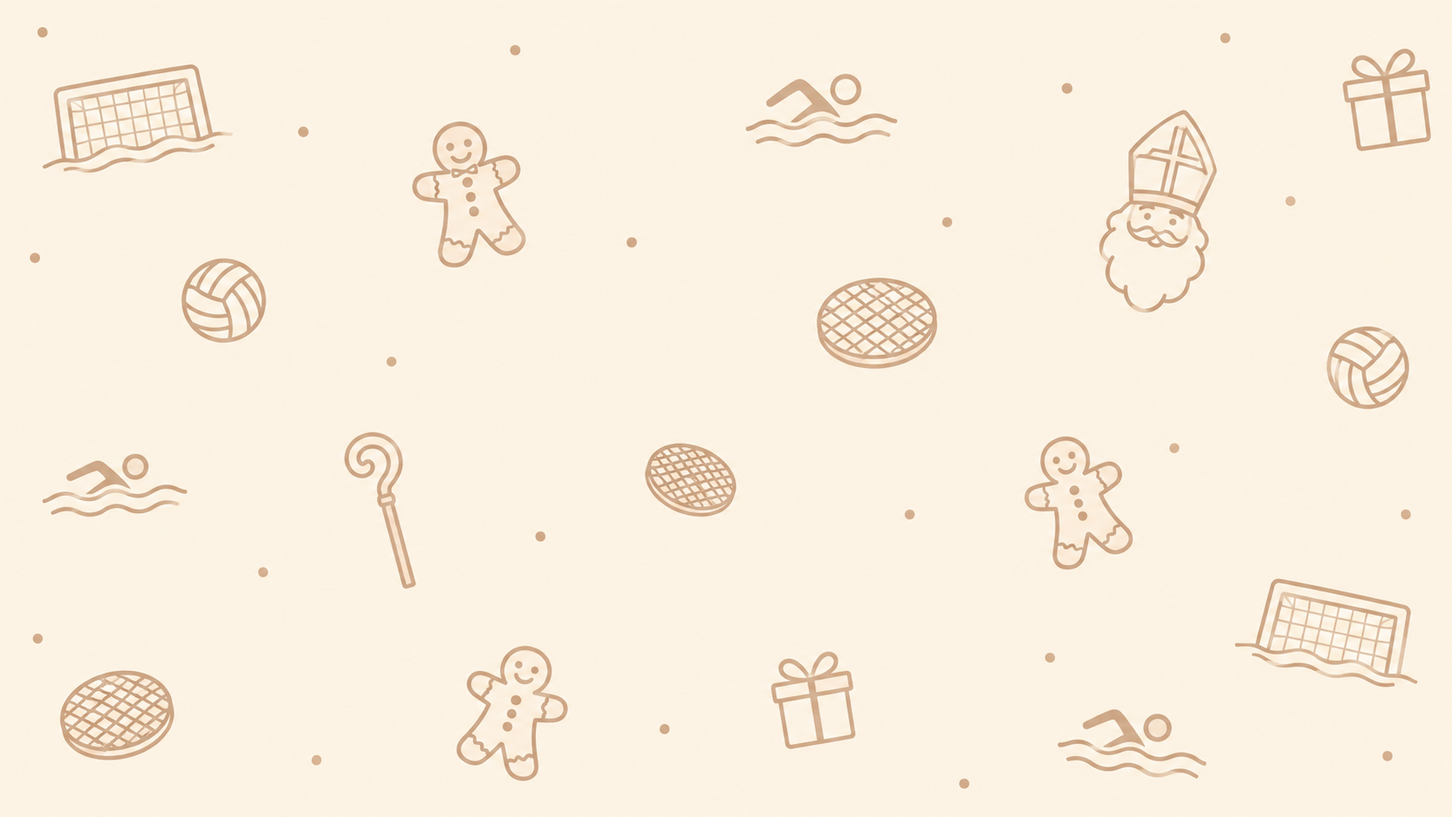
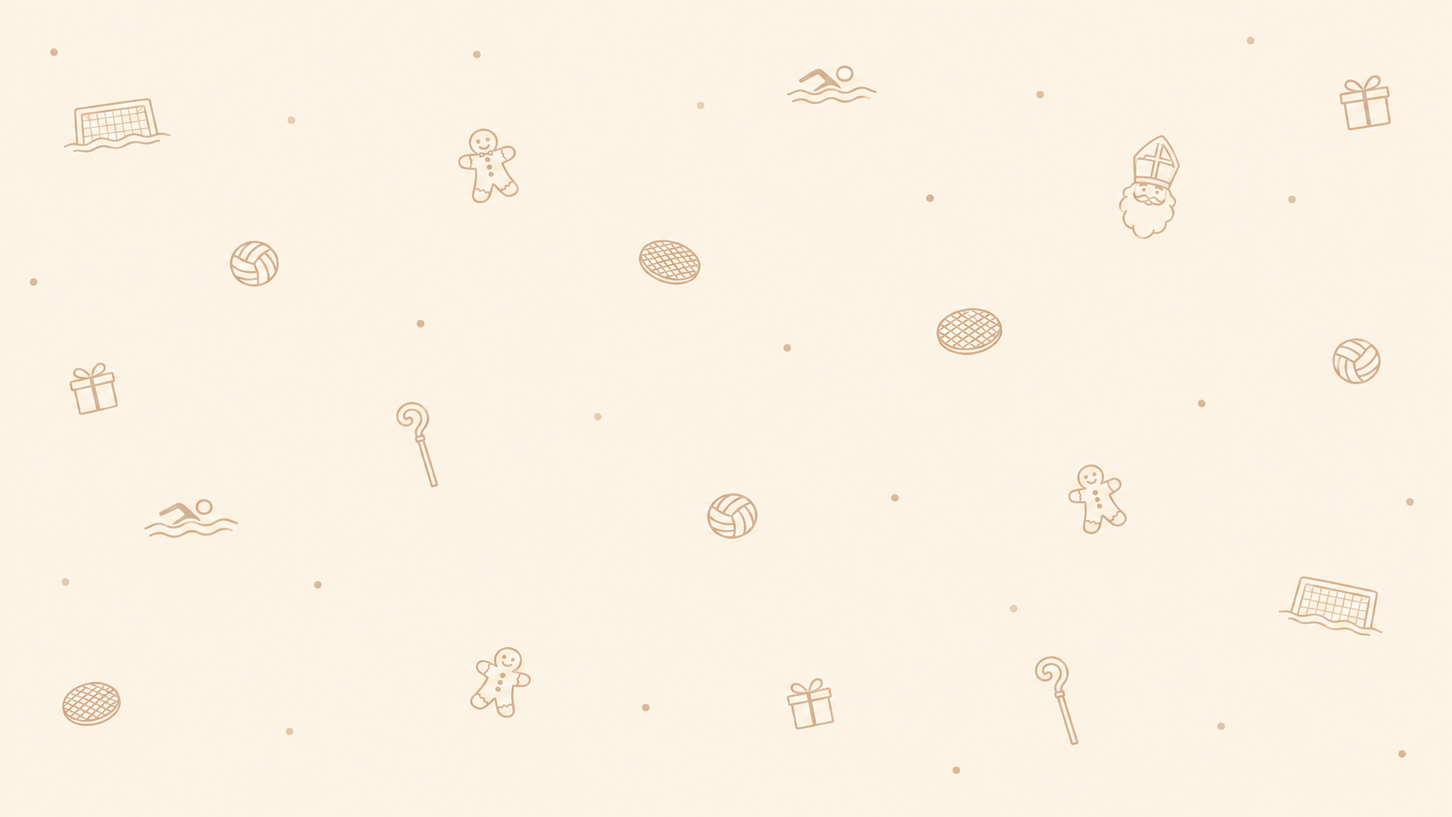
Apply warm Sinterklaas-inspired theme

diff --git a/src/styles.css b/src/styles.css
@@ -2,38 +2,50 @@
 
 :root {
   font-family: 'DM Sans', sans-serif;
-  color: #1d2b24;
-  background: #fcf1e1;
+  color: #34251d;
+  background: #f8efe2;
   font-synthesis: none;
   text-rendering: optimizeLegibility;
   font-smooth: always;
-  --forest: #155c3b;
-  --forest-dark: #0e452c;
-  --forest-soft: #e7f2eb;
-  --club-green: #22c55e;
-  --gold: #f5bd43;
-  --red: #ef4444;
-  --muted: #78827b;
-  --line: #e6e9e3;
-  --paper: #ffffff;
-  --soft-bg: #fcf1e1;
+  --forest: #75472d;
+  --forest-dark: #56331f;
+  --forest-soft: #efe1d0;
+  --club-green: #bd8247;
+  --gold: #c58b3e;
+  --red: #a64e3d;
+  --muted: #81766a;
+  --line: #e8dccb;
+  --paper: #fffaf2;
+  --soft-bg: #f8efe2;
+  --surface-raised: #fffdf8;
   --p-primary-color: var(--forest);
   --p-primary-hover-color: var(--forest-dark);
   --p-primary-active-color: var(--forest-dark);
   --p-primary-contrast-color: #ffffff;
-  --p-focus-ring-color: rgb(21 92 59 / 24%);
+  --p-focus-ring-color: rgb(117 71 45 / 24%);
 }
 
 * { box-sizing: border-box; }
 
 body {
+  position: relative;
+  isolation: isolate;
   min-width: 320px;
   min-height: 100vh;
   margin: 0;
   background-color: var(--soft-bg);
+}
+
+body::before {
+  position: fixed;
+  z-index: -1;
+  inset: 0;
+  content: '';
   background-image: url('./assets/bg.png');
   background-size: 50% auto;
   background-repeat: repeat;
+  opacity: .14;
+  pointer-events: none;
 }
 
 button, input, textarea { font: inherit; }
@@ -46,7 +58,7 @@ a { color: inherit; }
   display: flex;
   align-items: center;
   gap: 48px;
-  background: rgb(255 255 255 / 92%);
+  background: rgb(255 250 242 / 94%);
   border-bottom: 1px solid var(--line);
 }
 .brand { display: flex; align-items: center; gap: 11px; text-decoration: none; flex-shrink: 0; }
@@ -58,16 +70,16 @@ a { color: inherit; }
   height: 43px;
   border: 2px solid var(--forest);
   border-radius: 50%;
-  color: var(--red);
+  color: var(--gold);
   font: 800 24px 'Manrope', sans-serif;
-  background: #fff;
-  box-shadow: inset 0 0 0 3px #fff, inset 0 0 0 5px var(--forest);
+  background: var(--paper);
+  box-shadow: inset 0 0 0 3px var(--paper), inset 0 0 0 5px var(--forest);
 }
 .brand-copy { display: grid; gap: 1px; }
 .brand-copy strong { font: 800 14px 'Manrope', sans-serif; letter-spacing: -.025em; }
 .brand-copy small { color: var(--muted); font-size: 11px; }
 .main-nav { display: flex; align-items: center; gap: 28px; flex: 1; }
-.main-nav a, .login-link { color: #69736c; font-size: 13px; font-weight: 600; text-decoration: none; transition: color .18s ease; }
+.main-nav a, .login-link { color: #74685b; font-size: 13px; font-weight: 600; text-decoration: none; transition: color .18s ease; }
 .main-nav a:hover, .main-nav a.router-link-active, .login-link:hover { color: var(--forest); }
 .main-nav a.router-link-active { position: relative; }
 .main-nav a.router-link-active::after { position: absolute; content: ''; height: 2px; left: 0; right: 0; bottom: -27px; background: var(--forest); border-radius: 2px; }
@@ -77,48 +89,50 @@ a { color: inherit; }
 .page-content { width: min(1120px, calc(100% - 44px)); margin: 0 auto; flex: 1; padding: 38px 0 68px; }
 .page-heading { display: flex; align-items: center; justify-content: space-between; margin: 0 0 28px; }
 .page-heading h1 { margin: 5px 0 0; font: 800 clamp(28px, 4vw, 38px) 'Manrope', sans-serif; letter-spacing: -.045em; }
-.heading-season { color: #adbaae; font: 800 32px 'Manrope', sans-serif; }
+.heading-season { color: #c3ad94; font: 800 32px 'Manrope', sans-serif; }
 .eyebrow { margin: 0; color: var(--forest); font-size: 11px; font-weight: 800; letter-spacing: .12em; text-transform: uppercase; }
 .setup-notice, .deadline-notice { display: flex; align-items: center; gap: 10px; padding: 11px 24px; font-size: 13px; }
 .setup-notice { color: #735516; background: #fff2d6; }
 .deadline-notice { color: #814b08; background: #fff2d6; }
 
-.hero-grid { display: grid; grid-template-columns: minmax(0, 1.15fr) minmax(340px, .75fr); align-items: center; gap: 62px; padding: 48px 0 76px; }
+.hero-grid { position: relative; display: grid; grid-template-columns: minmax(0, 1.15fr) minmax(340px, .75fr); align-items: center; gap: 62px; padding: 48px 0 76px; }
+.hero-grid::before { position: absolute; z-index: 0; inset: -18px 34% -22px -8vw; content: ''; background: radial-gradient(ellipse at 30% 45%, rgb(255 250 242 / 97%) 0%, rgb(255 250 242 / 88%) 48%, rgb(255 250 242 / 0%) 100%); pointer-events: none; }
+.hero-grid > * { position: relative; z-index: 1; }
 .hero-copy h1 { max-width: 650px; margin: 15px 0 18px; font: 800 clamp(38px, 5.3vw, 64px)/1.08 'Manrope', sans-serif; letter-spacing: -.065em; }
 .hero-copy h1 span { color: var(--forest); }
-.hero-description { max-width: 515px; color: #657269; font-size: 16px; line-height: 1.75; }
+.hero-description { max-width: 515px; color: #66594d; font-size: 16px; line-height: 1.75; }
 .hero-pills { display: flex; flex-wrap: wrap; gap: 10px; margin-top: 26px; }
-.hero-pills span { padding: 9px 13px; border-radius: 999px; background: #fff; border: 1px solid var(--line); color: #58655c; font-size: 12px; font-weight: 600; }
+.hero-pills span { padding: 9px 13px; border-radius: 999px; background: var(--paper); border: 1px solid var(--line); color: #665748; font-size: 12px; font-weight: 600; }
 .hero-pills i { margin-right: 5px; color: var(--forest); }
 .login-card { max-width: 425px; justify-self: end; width: 100%; }
-.p-card { border: 1px solid var(--line); border-radius: 18px; box-shadow: 0 12px 35px rgb(25 54 37 / 5%); }
+.p-card { border: 1px solid var(--line); border-radius: 18px; background: var(--paper); box-shadow: 0 12px 35px rgb(79 53 31 / 7%); }
 .p-card .p-card-body { padding: 25px; }
 .p-card .p-card-title { display: flex; align-items: center; gap: 11px; font: 700 17px 'Manrope', sans-serif; letter-spacing: -.02em; }
 .p-card .p-card-subtitle { margin-top: 7px; color: var(--muted); font-size: 13px; line-height: 1.55; }
 .p-card .p-card-content { padding-top: 20px; }
 .card-icon, .side-icon { display: inline-grid; place-items: center; width: 39px; height: 39px; border-radius: 12px; background: var(--forest-soft); color: var(--forest); }
 .stack-form { display: grid; gap: 10px; }
-.stack-form label, .field label { color: #445148; font-size: 12px; font-weight: 700; }
-.p-inputtext, .p-textarea { width: 100%; border-color: #dce3dd; border-radius: 10px; font-size: 13px; }
+.stack-form label, .field label { color: #574538; font-size: 12px; font-weight: 700; }
+.p-inputtext, .p-textarea { width: 100%; border-color: #dfd2c0; border-radius: 10px; background: var(--surface-raised); font-size: 13px; }
 .p-inputtext { min-height: 43px; }
 .p-button { border-radius: 10px; font-size: 13px; font-weight: 700; }
 .stack-form .p-button { width: 100%; justify-content: center; margin-top: 4px; min-height: 45px; }
 .p-button:not(.p-button-secondary):not(.p-button-text):not(.p-button-outlined):not(.p-button-danger) { background: var(--forest); border-color: var(--forest); }
 .p-button:not(.p-button-secondary):not(.p-button-text):not(.p-button-outlined):not(.p-button-danger):hover { background: var(--forest-dark); border-color: var(--forest-dark); }
 .form-message { margin-top: 14px; }
-.privacy-note { display: flex; align-items: flex-start; gap: 7px; color: #849087; font-size: 11px; line-height: 1.5; }
+.privacy-note { display: flex; align-items: flex-start; gap: 7px; color: #81766a; font-size: 11px; line-height: 1.5; }
 .privacy-note i { color: var(--forest); margin-top: 1px; }
 .login-card .privacy-note { margin: 16px 0 0; }
 .hero-art { min-height: 340px; position: relative; display: grid; place-items: center; }
-.art-sun { position: absolute; width: 300px; height: 300px; border-radius: 50%; background: #f8de95; top: 16px; right: 18px; opacity: .63; }
-.art-card { position: relative; z-index: 1; width: 240px; height: 285px; display: flex; flex-direction: column; justify-content: space-between; padding: 25px; color: white; background: linear-gradient(150deg, #1d7049, #114a31); border-radius: 18px; box-shadow: 0 25px 55px rgb(20 77 48 / 25%); transform: rotate(-5deg); }
+.art-sun { position: absolute; width: 300px; height: 300px; border-radius: 50%; background: #e8c99e; top: 16px; right: 18px; opacity: .54; }
+.art-card { position: relative; z-index: 1; width: 240px; height: 285px; display: flex; flex-direction: column; justify-content: space-between; padding: 25px; color: #fffaf2; background: linear-gradient(150deg, #865337, #593923); border-radius: 18px; box-shadow: 0 25px 55px rgb(79 53 31 / 22%); transform: rotate(-5deg); }
 .art-label { font-size: 10px; letter-spacing: .16em; text-transform: uppercase; opacity: .8; }
 .art-card strong { font: 800 28px/1.1 'Manrope', sans-serif; letter-spacing: -.05em; }
 .art-product-icon { align-self: flex-end; width: 78px; height: 78px; border: 5px solid rgb(255 255 255 / 75%); border-radius: 22px; box-shadow: 0 8px 18px rgb(0 0 0 / 15%); }
 .art-footer { font-size: 10px; opacity: .72; letter-spacing: .1em; text-transform: uppercase; }
-.floating-price { position: absolute; right: 0; bottom: 42px; z-index: 2; padding: 13px 17px; color: var(--forest); background: white; border-radius: 12px; box-shadow: 0 8px 26px rgb(38 60 43 / 12%); font: 800 20px 'Manrope', sans-serif; transform: rotate(4deg); }
+.floating-price { position: absolute; right: 0; bottom: 42px; z-index: 2; padding: 13px 17px; color: var(--forest); background: var(--paper); border-radius: 12px; box-shadow: 0 8px 26px rgb(79 53 31 / 12%); font: 800 20px 'Manrope', sans-serif; transform: rotate(4deg); }
 .floating-price small { display: block; color: var(--muted); font: 500 10px 'DM Sans', sans-serif; }
-.welcome-card { display: flex; align-items: center; gap: 14px; max-width: 530px; margin-top: 28px; padding: 15px; border: 1px solid #d5e7d9; border-radius: 14px; background: #fff; }
+.welcome-card { display: flex; align-items: center; gap: 14px; max-width: 530px; margin-top: 28px; padding: 15px; border: 1px solid #e5d4bd; border-radius: 14px; background: var(--paper); }
 .welcome-icon { display: grid; place-items: center; width: 36px; height: 36px; flex: 0 0 auto; color: var(--forest); background: var(--forest-soft); border-radius: 50%; }
 .welcome-card p { margin: 4px 0 0; color: var(--muted); font-size: 11px; }
 .welcome-card .text-action { margin-left: auto; }
@@ -129,7 +143,7 @@ a { color: inherit; }
 .text-action { display: inline-flex; align-items: center; gap: 8px; color: var(--forest); font-size: 12px; font-weight: 800; text-decoration: none; }
 .text-action:hover { color: var(--forest-dark); }
 .product-cards { display: grid; grid-template-columns: repeat(4, minmax(0, 1fr)); gap: 14px; margin-top: 22px; }
-.product-card { display: flex; align-items: center; gap: 15px; padding: 18px; background: #fff; border: 1px solid var(--line); border-radius: 14px; }
+.product-card { display: flex; align-items: center; gap: 15px; padding: 18px; background: rgb(255 250 242 / 94%); border: 1px solid var(--line); border-radius: 14px; box-shadow: 0 5px 18px rgb(79 53 31 / 4%); }
 .product-art { display: block; width: 50px; height: 50px; flex: 0 0 auto; border-radius: 13px; }
 .product-card h3 { margin: 0 0 4px; font: 700 14px 'Manrope', sans-serif; }
 .product-card p { margin: 0; color: var(--muted); font-size: 11px; }
@@ -143,36 +157,36 @@ a { color: inherit; }
 .leaderboard-title .muted { margin: 0; }
 .leaderboard-list { display: grid; gap: 5px; }
 .leaderboard-row { min-height: 67px; display: grid; grid-template-columns: 35px 36px minmax(100px, 1fr) minmax(60px, .8fr) 95px; align-items: center; gap: 13px; padding: 8px 12px; border-radius: 12px; }
-.leaderboard-row:nth-child(even) { background: #f8faf7; }
-.rank-number { color: #95a197; font: 700 12px 'Manrope', sans-serif; }
+.leaderboard-row:nth-child(even) { background: #f7f0e6; }
+.rank-number { color: #a49483; font: 700 12px 'Manrope', sans-serif; }
 .rank-avatar-wrap { position: relative; display: grid; place-items: center; width: 36px; height: 36px; }
 .rank-medal { position: absolute; top: -4px; right: -4px; display: grid; place-items: center; width: 15px; height: 15px; border: 2px solid #fff; border-radius: 50%; color: #8b5b00; background: #f4c84c; font-size: 9px; line-height: 1; }
-.rank-avatar { display: grid; place-items: center; width: 35px; height: 35px; border-radius: 50%; color: var(--forest); background: #e4efe6; font: 800 13px 'Manrope', sans-serif; }
-.leaderboard-row:nth-child(2) .rank-avatar { background: #eee9dc; color: #89774a; }
-.leaderboard-row:nth-child(3) .rank-avatar { background: #f4e3df; color: #a75e50; }
+.rank-avatar { display: grid; place-items: center; width: 35px; height: 35px; border-radius: 50%; color: var(--forest); background: #ead9c3; font: 800 13px 'Manrope', sans-serif; }
+.leaderboard-row:nth-child(2) .rank-avatar { background: #e8e0d1; color: #76644b; }
+.leaderboard-row:nth-child(3) .rank-avatar { background: #efddd2; color: #995d42; }
 .rank-name { font-size: 13px; }
-.rank-bar { height: 6px; overflow: hidden; border-radius: 10px; background: #e9eee9; }
-.rank-bar span { display: block; height: 100%; min-width: 8px; border-radius: inherit; background: linear-gradient(90deg, #15803d, var(--club-green)); }
+.rank-bar { height: 6px; overflow: hidden; border-radius: 10px; background: #e9dfd1; }
+.rank-bar span { display: block; height: 100%; min-width: 8px; border-radius: inherit; background: linear-gradient(90deg, #75472d, var(--club-green)); }
 .rank-total { text-align: right; color: var(--forest); font: 700 13px 'Manrope', sans-serif; white-space: nowrap; }
 .privacy-note { margin-top: 20px; }
-.side-card { padding: 22px; border-radius: 16px; background: #eaf3eb; }
-.side-icon { width: 44px; height: 44px; margin-bottom: 22px; background: white; color: #c89015; font-size: 18px; }
+.side-card { padding: 22px; border: 1px solid #e7d7c2; border-radius: 16px; background: #f1e4d2; }
+.side-icon { width: 44px; height: 44px; margin-bottom: 22px; background: var(--paper); color: #a66d33; font-size: 18px; }
 .side-card h3 { margin: 9px 0; font: 800 21px/1.25 'Manrope', sans-serif; letter-spacing: -.04em; }
-.side-card p:not(.eyebrow) { margin: 0 0 19px; color: #68786b; font-size: 12px; line-height: 1.7; }
+.side-card p:not(.eyebrow) { margin: 0 0 19px; color: #746456; font-size: 12px; line-height: 1.7; }
 .prizes-card .p-card-body { padding: 22px; }
 .prizes-card h2 { margin: 7px 0; font: 800 20px 'Manrope', sans-serif; letter-spacing: -.04em; }
 .prizes-card .muted { margin: 0; line-height: 1.6; }
 .prize-list { display: grid; gap: 8px; margin-top: 17px; }
-.prize-row { display: grid; grid-template-columns: 31px auto 1fr auto; align-items: center; gap: 9px; padding: 10px; border-radius: 11px; background: #fafaf7; font-size: 10px; }
-.prize-row > strong { color: #334138; font-size: 11px; white-space: nowrap; }
+.prize-row { display: grid; grid-template-columns: 31px auto 1fr auto; align-items: center; gap: 9px; padding: 10px; border-radius: 11px; background: #f8f2e9; font-size: 10px; }
+.prize-row > strong { color: #49382b; font-size: 11px; white-space: nowrap; }
 .prize-row > span:not(.prize-icon) { color: var(--muted); }
 .prize-icon { display: grid; place-items: center; width: 30px; height: 30px; border-radius: 50%; }
-.prize-gold .prize-icon { color: #996b07; background: #f9e9b5; }
-.prize-silver .prize-icon { color: #657079; background: #e8ecef; }
+.prize-gold .prize-icon { color: #8d5b19; background: #f1dfbd; }
+.prize-silver .prize-icon { color: #655b4e; background: #e8e0d4; }
 .prize-bronze .prize-icon { color: #925b3d; background: #f0dfd3; }
 .prize-row .prize-value { color: var(--forest); font: 800 13px 'Manrope', sans-serif; }
 .empty-state, .loading-state { padding: 42px 12px; text-align: center; color: var(--muted); }
-.empty-state h3 { color: #445148; font: 700 16px 'Manrope', sans-serif; }
+.empty-state h3 { color: #574538; font: 700 16px 'Manrope', sans-serif; }
 .empty-icon { display: grid; place-items: center; width: 46px; height: 46px; margin: auto; border-radius: 50%; color: var(--forest); background: var(--forest-soft); }
 
 .centered-page { display: grid; place-items: start center; }
@@ -183,27 +197,27 @@ a { color: inherit; }
 
 .order-layout { display: grid; grid-template-columns: minmax(0, 1fr) 330px; align-items: start; gap: 20px; }
 .order-form { display: grid; gap: 16px; }
-.seller-total-card { overflow: hidden; background: linear-gradient(110deg, #eaf4eb, #fff 80%); }
+.seller-total-card { overflow: hidden; background: linear-gradient(110deg, #f1e5d4, #fffaf2 80%); }
 .seller-total-card .p-card-body { padding: 17px 22px; }
 .seller-total-card .p-card-content { display: block; padding: 0; }
 .seller-total-toggle { display: flex; width: 100%; align-items: center; justify-content: space-between; padding: 0; border: 0; color: inherit; background: transparent; text-align: left; cursor: pointer; }
-.seller-total-toggle:focus-visible { outline: 3px solid rgb(21 92 59 / 30%); outline-offset: 5px; border-radius: 8px; }
+.seller-total-toggle:focus-visible { outline: 3px solid rgb(117 71 45 / 30%); outline-offset: 5px; border-radius: 8px; }
 .seller-total-copy { display: grid; gap: 4px; }
 .seller-total-copy strong { color: var(--forest); font: 800 25px 'Manrope', sans-serif; }
 .seller-total-copy small { color: var(--forest); font-size: 11px; font-weight: 700; }
-.seller-total-action { display: grid; place-items: center; width: 38px; height: 38px; border: 1px solid #d6e4d7; border-radius: 50%; color: var(--forest); background: #fff; font-size: 15px; transition: background .2s, transform .2s; }
-.seller-total-toggle:hover .seller-total-action { transform: translateY(2px); background: #f3f8f3; }
-.sales-history { margin-top: 16px; padding-top: 14px; border-top: 1px solid #dfe9df; animation: reveal-history .25s ease-out both; }
-.sales-history-heading { display: flex; align-items: center; justify-content: space-between; color: #334138; font: 700 13px 'Manrope', sans-serif; }
+.seller-total-action { display: grid; place-items: center; width: 38px; height: 38px; border: 1px solid #e3d2bc; border-radius: 50%; color: var(--forest); background: var(--paper); font-size: 15px; transition: background .2s, transform .2s; }
+.seller-total-toggle:hover .seller-total-action { transform: translateY(2px); background: #f7efe4; }
+.sales-history { margin-top: 16px; padding-top: 14px; border-top: 1px solid #e8dccb; animation: reveal-history .25s ease-out both; }
+.sales-history-heading { display: flex; align-items: center; justify-content: space-between; color: #49382b; font: 700 13px 'Manrope', sans-serif; }
 .sales-history-heading .p-button { width: 32px; height: 32px; }
 .sales-history-state { padding: 18px 4px; color: var(--muted); font-size: 11px; }
 .sales-history-list { display: grid; max-height: 340px; overflow-y: auto; }
-.sales-history-order { position: relative; display: grid; gap: 4px; padding: 11px 3px; border-bottom: 1px solid #e8eee8; }
-.sales-order-heading { display: flex; align-items: center; justify-content: space-between; gap: 8px; color: #334138; font-size: 11px; }
+.sales-history-order { position: relative; display: grid; gap: 4px; padding: 11px 3px; border-bottom: 1px solid #eee4d6; }
+.sales-order-heading { display: flex; align-items: center; justify-content: space-between; gap: 8px; color: #49382b; font-size: 11px; }
 .sales-order-heading .p-tag { font-size: 9px; }
 .sales-order-total { color: var(--forest); white-space: nowrap; }
 .sales-history-order > small { color: var(--muted); font-size: 9px; }
-.sales-history-order > p { margin: 0; color: #667168; font-size: 10px; line-height: 1.5; }
+.sales-history-order > p { margin: 0; color: #74685b; font-size: 10px; line-height: 1.5; }
 .sales-history-cancelled { opacity: .68; }
 .cancelled-order-total { color: #7d8580; font-size: 10px; text-decoration: line-through; }
 .buyer-card .p-card-body, .products-card .p-card-body, .summary-card .p-card-body { padding: 22px; }
@@ -218,56 +232,57 @@ a { color: inherit; }
 .group-heading p { margin: 0; color: var(--muted); font-size: 11px; }
 .product-quantity-list { margin-top: 13px; }
 .quantity-row { display: flex; align-items: center; justify-content: space-between; gap: 15px; padding: 13px 0; }
-.quantity-row + .quantity-row { border-top: 1px dashed #e7ebe6; }
+.quantity-row + .quantity-row { border-top: 1px dashed #e8dccb; }
 .quantity-product-art { display: block; width: 52px; height: 52px; flex: 0 0 auto; border-radius: 13px; }
 .quantity-product-copy { flex: 1; }
 .quantity-row strong { display: block; font-size: 12px; }
 .quantity-row small { display: block; margin-top: 4px; color: var(--muted); font-size: 10px; }
 .p-inputnumber .p-inputnumber-input { text-align: center; }
-.quantity-row .p-inputnumber-button { background: #f1f5f0; border-color: #e4e9e3; color: var(--forest); }
+.quantity-row .p-inputnumber-button { background: #f4ecdf; border-color: #e5d7c4; color: var(--forest); }
 .quantity-row .p-inputnumber { width: 145px; }
 .summary-card { position: sticky; top: 18px; }
 .summary-card .p-card-title { display: block; font: 800 18px 'Manrope', sans-serif; }
 .summary-lines { display: grid; gap: 12px; min-height: 28px; }
-.summary-lines > div { display: flex; align-items: flex-start; justify-content: space-between; gap: 10px; color: #647168; font-size: 11px; }
-.summary-lines > div strong { color: #263a2d; white-space: nowrap; }
+.summary-lines > div { display: flex; align-items: flex-start; justify-content: space-between; gap: 10px; color: #706255; font-size: 11px; }
+.summary-lines > div strong { color: #3e2e22; white-space: nowrap; }
 .summary-lines .muted { margin: 0; }
 .total-row { display: flex; justify-content: space-between; align-items: center; }
-.total-row span { color: #505d54; font-size: 13px; font-weight: 700; }
+.total-row span { color: #635344; font-size: 13px; font-weight: 700; }
 .total-row strong { color: var(--forest); font: 800 26px 'Manrope', sans-serif; }
-.discount-note { display: flex; gap: 7px; color: #768178; font-size: 10px; line-height: 1.5; }
+.discount-note { display: flex; gap: 7px; color: #81766a; font-size: 10px; line-height: 1.5; }
 .discount-note i { color: #bd8a1b; }
-.discount-total { display: flex; justify-content: space-between; align-items: center; margin-top: 13px; color: #647168; font-size: 11px; }
+.discount-total { display: flex; justify-content: space-between; align-items: center; margin-top: 13px; color: #706255; font-size: 11px; }
 .discount-total i { margin-right: 5px; color: #bd8a1b; }
-.discount-total strong, .order-discount { color: #23804a; font-weight: 700; white-space: nowrap; }
+.discount-total strong, .order-discount { color: #765a35; font-weight: 700; white-space: nowrap; }
 .order-discount { font-size: 11px; }
 .submit-order { width: 100%; justify-content: center; min-height: 45px; }
 .tiny-note { font-size: 10px; line-height: 1.5; }
 .saved-message { margin-top: 13px; }
 .saved-message .p-message-text { display: grid; gap: 3px; }
-.confirm-order-content > p:first-child { margin: 0 0 16px; color: #59665d; font-size: 13px; }
-.confirm-order-content > p:first-child strong { color: #263a2d; }
-.confirm-order-lines { display: grid; gap: 10px; padding: 14px; border-radius: 12px; background: #f7f9f5; }
-.confirm-order-lines > div { display: flex; justify-content: space-between; gap: 12px; color: #647168; font-size: 11px; }
-.confirm-order-lines > div strong { color: #263a2d; white-space: nowrap; }
-.confirm-order-lines .confirm-discount strong { color: #23804a; }
-.confirm-order-lines .confirm-order-total { padding-top: 10px; border-top: 1px solid var(--line); color: #334138; font-size: 13px; font-weight: 700; }
+.confirm-order-content > p:first-child { margin: 0 0 16px; color: #66584b; font-size: 13px; }
+.confirm-order-content > p:first-child strong { color: #3e2e22; }
+.confirm-order-lines { display: grid; gap: 10px; padding: 14px; border-radius: 12px; background: #f8f2e9; }
+.confirm-order-lines > div { display: flex; justify-content: space-between; gap: 12px; color: #706255; font-size: 11px; }
+.confirm-order-lines > div strong { color: #3e2e22; white-space: nowrap; }
+.confirm-order-lines .confirm-discount strong { color: #765a35; }
+.confirm-order-lines .confirm-order-total { padding-top: 10px; border-top: 1px solid var(--line); color: #49382b; font-size: 13px; font-weight: 700; }
 .confirm-order-lines .confirm-order-total strong { color: var(--forest); font: 800 20px 'Manrope', sans-serif; }
 .confirm-order-content > .muted { line-height: 1.6; }
 .order-success-dialog .p-dialog-content { padding: 28px 30px 30px; border-radius: 18px; }
 .order-success-content { display: grid; justify-items: center; text-align: center; }
 .order-success-content .eyebrow { margin-top: 10px; }
-.order-success-content h2 { margin: 6px 0; color: #20372a; font: 800 23px 'Manrope', sans-serif; letter-spacing: -.04em; }
-.order-success-content > p:not(.eyebrow) { margin: 5px 0; color: #59665d; font-size: 12px; }
+.order-success-content h2 { margin: 6px 0; color: #3e2e22; font: 800 23px 'Manrope', sans-serif; letter-spacing: -.04em; }
+.order-success-content > p:not(.eyebrow) { margin: 5px 0; color: #66584b; font-size: 12px; }
 .success-amount { margin: 7px 0; color: var(--forest); font: 800 27px 'Manrope', sans-serif; }
 .order-success-content .p-button { width: 100%; justify-content: center; margin-top: 14px; }
+.p-dialog { border: 1px solid var(--line); background: var(--paper); box-shadow: 0 20px 60px rgb(79 53 31 / 18%); }
 .success-animation { position: relative; width: 90px; height: 90px; display: grid; place-items: center; }
 .success-animation svg { width: 76px; height: 76px; overflow: visible; }
-.success-circle { fill: #e6f4e9; stroke: #2b8953; stroke-width: 3; transform-origin: center; animation: success-pop .55s cubic-bezier(.2, 1.5, .5, 1) both; }
-.success-check { fill: none; stroke: #236d42; stroke-width: 5; stroke-linecap: round; stroke-linejoin: round; stroke-dasharray: 48; stroke-dashoffset: 48; animation: success-draw .45s .3s ease-out forwards; }
+.success-circle { fill: #f0e4d3; stroke: #9a6b3d; stroke-width: 3; transform-origin: center; animation: success-pop .55s cubic-bezier(.2, 1.5, .5, 1) both; }
+.success-check { fill: none; stroke: #70472e; stroke-width: 5; stroke-linecap: round; stroke-linejoin: round; stroke-dasharray: 48; stroke-dashoffset: 48; animation: success-draw .45s .3s ease-out forwards; }
 .success-spark { position: absolute; width: 8px; height: 8px; border-radius: 3px; background: #e2ae42; animation: spark-pop .65s .2s ease-out both; }
 .spark-one { top: 10px; left: 10px; transform: rotate(25deg); }
-.spark-two { top: 15px; right: 7px; width: 6px; height: 6px; background: #76ad78; }
+.spark-two { top: 15px; right: 7px; width: 6px; height: 6px; background: #b88652; }
 .spark-three { bottom: 8px; right: 14px; width: 7px; height: 7px; background: #cf8658; }
 @keyframes success-pop { from { opacity: 0; transform: scale(.3) rotate(-18deg); } to { opacity: 1; transform: scale(1) rotate(0); } }
 @keyframes success-draw { to { stroke-dashoffset: 0; } }
@@ -281,11 +296,11 @@ a { color: inherit; }
 .stats-grid { display: grid; grid-template-columns: repeat(4, minmax(0, 1fr)); gap: 13px; }
 .stat-card .p-card-body { padding: 19px; }
 .stat-card .p-card-content { display: grid; gap: 7px; padding: 0; }
-.stat-label { color: #67746b; font-size: 11px; font-weight: 700; }
+.stat-label { color: #706255; font-size: 11px; font-weight: 700; }
 .stat-card strong { color: var(--forest); font: 800 26px 'Manrope', sans-serif; letter-spacing: -.04em; }
-.stat-card small { color: #8a958c; font-size: 10px; }
-.stat-denominator { color: #8a958c !important; font-size: 17px !important; }
-.stat-revenue { background: #eef6ef; }
+.stat-card small { color: #8b7d6e; font-size: 10px; }
+.stat-denominator { color: #8b7d6e !important; font-size: 17px !important; }
+.stat-revenue { background: #f1e7d9; }
 .stat-revenue .p-card-body { background: transparent; }
 .commission-card .p-card-body { padding: 22px; }
 .table-heading { margin-bottom: 17px; }
@@ -293,10 +308,10 @@ a { color: inherit; }
 .table-controls { display: flex; align-items: center; gap: 9px; }
 .table-controls .p-inputtext { width: 220px; }
 .filter-row { margin: 0 0 12px; }
-.checkbox-label { display: flex; align-items: center; gap: 8px; color: #667168; font-size: 11px; }
-.orders-table .p-datatable-thead > tr > th { color: #59665d; background: #f6f8f4; font-size: 10px; white-space: nowrap; }
+.checkbox-label { display: flex; align-items: center; gap: 8px; color: #74685b; font-size: 11px; }
+.orders-table .p-datatable-thead > tr > th { color: #655548; background: #f4ecdf; font-size: 10px; white-space: nowrap; }
 .orders-table .p-datatable-tbody > tr > td { font-size: 11px; vertical-align: middle; }
-.order-detail { max-width: 200px; display: block; color: #617067; line-height: 1.5; }
+.order-detail { max-width: 200px; display: block; color: #74685b; line-height: 1.5; }
 .row-actions { display: flex; align-items: center; gap: 1px; }
 .seller-names-card .p-card-body { padding: 22px; }
 .seller-names-card .section-title { margin-bottom: 5px; }
@@ -307,11 +322,11 @@ a { color: inherit; }
 .edit-form { display: grid; gap: 14px; padding-top: 8px; }
 .edit-count-grid { display: grid; grid-template-columns: repeat(2, 1fr); gap: 13px; }
 .edit-count-grid .p-inputnumber { width: 100%; }
-.dialog-total { display: flex; justify-content: space-between; padding-top: 14px; border-top: 1px solid var(--line); color: #526056; }
+.dialog-total { display: flex; justify-content: space-between; padding-top: 14px; border-top: 1px solid var(--line); color: #635344; }
 .dialog-total strong { color: var(--forest); font: 800 18px 'Manrope', sans-serif; }
 .dialog-actions { display: flex; justify-content: flex-end; gap: 7px; margin-top: 8px; }
 
-.site-footer { display: flex; justify-content: space-between; gap: 20px; padding: 18px clamp(20px, 6vw, 88px); border-top: 1px solid var(--line); color: #8a958c; background: #fff; font-size: 10px; }
+.site-footer { display: flex; justify-content: space-between; gap: 20px; padding: 18px clamp(20px, 6vw, 88px); border-top: 1px solid var(--line); color: #81766a; background: rgb(255 250 242 / 94%); font-size: 10px; }
 
 @media (max-width: 860px) {
   .site-header { gap: 25px; padding-inline: 24px; }
@@ -343,6 +358,7 @@ a { color: inherit; }
   .page-heading h1 { font-size: 29px; }
   .heading-season { font-size: 25px; }
   .hero-grid { grid-template-columns: 1fr; gap: 26px; padding: 35px 0 45px; }
+  .hero-grid::before { inset: -14px -6vw 30% -6vw; background: radial-gradient(ellipse at 38% 36%, rgb(255 250 242 / 98%) 0%, rgb(255 250 242 / 90%) 54%, rgb(255 250 242 / 0%) 100%); }
   .hero-copy h1 { max-width: 500px; font-size: clamp(39px, 11vw, 54px); }
   .hero-description { font-size: 14px; }
   .login-card { justify-self: stretch; max-width: none; }
